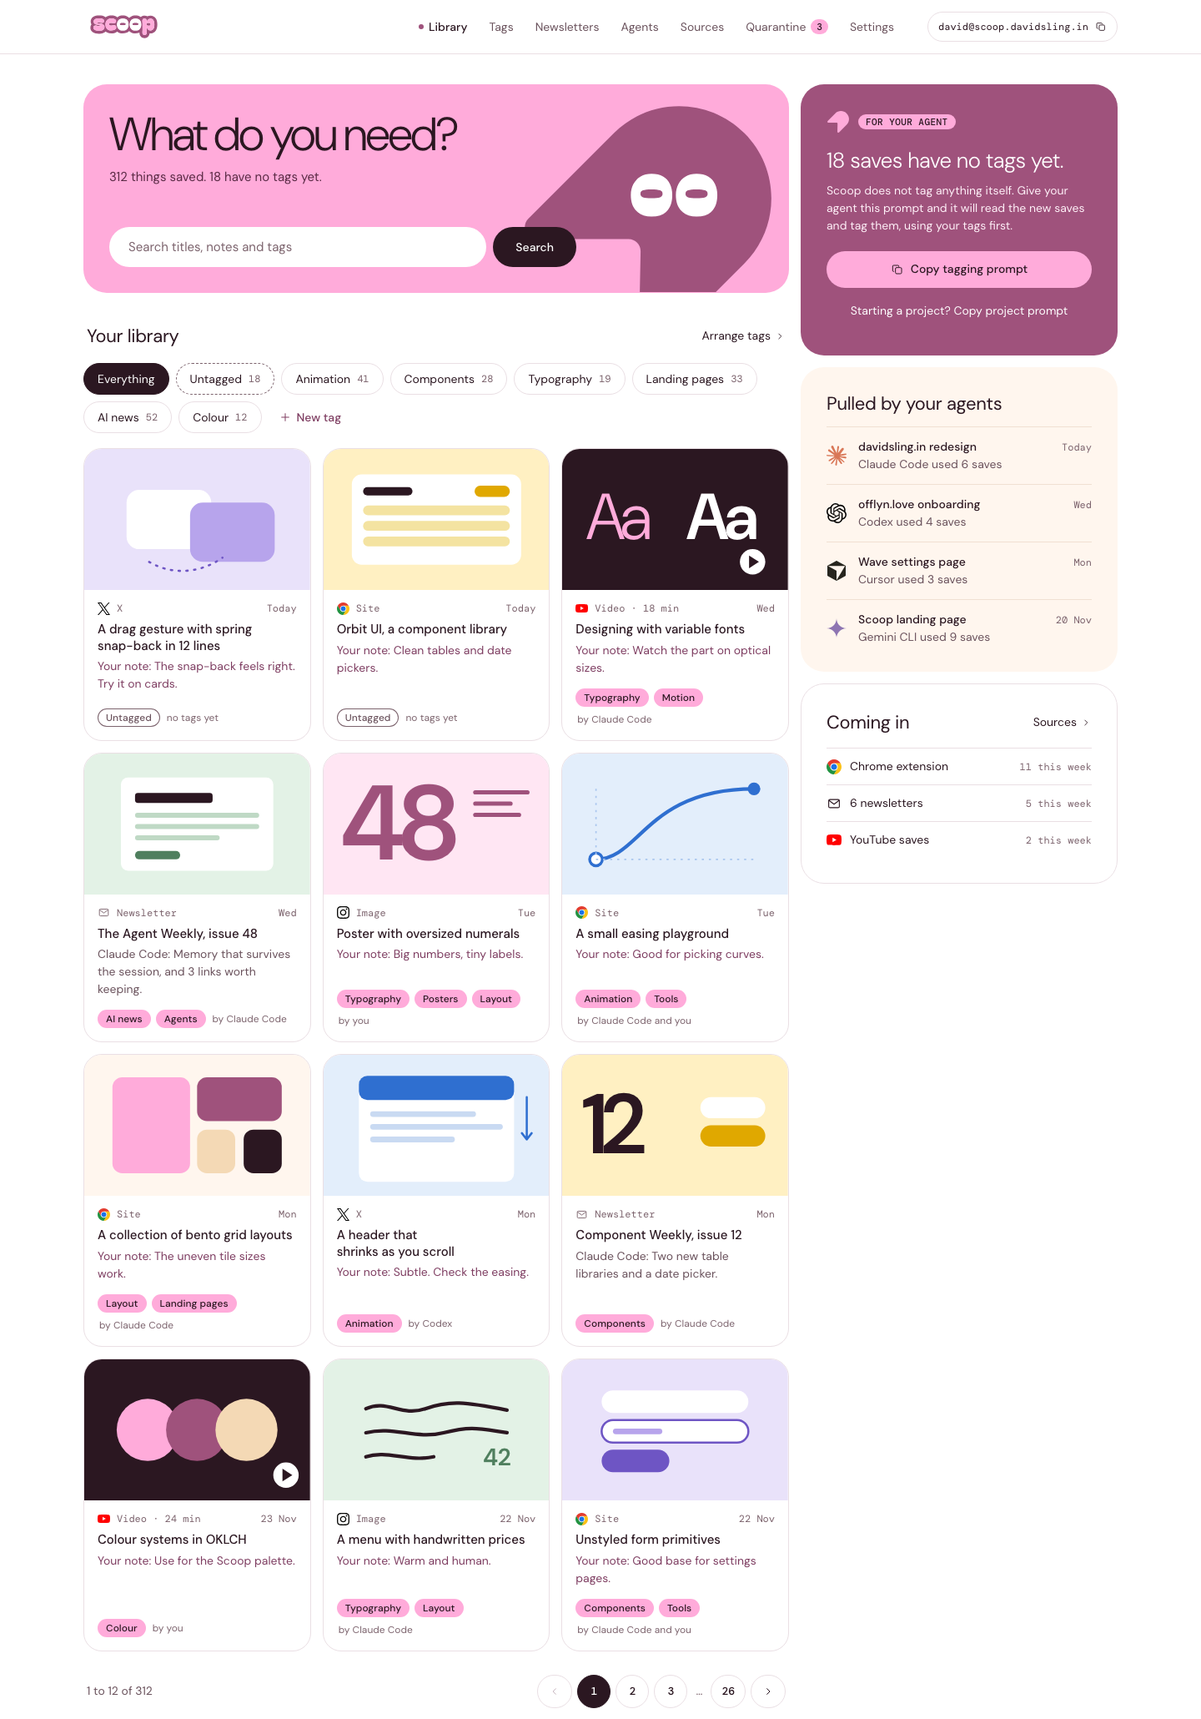
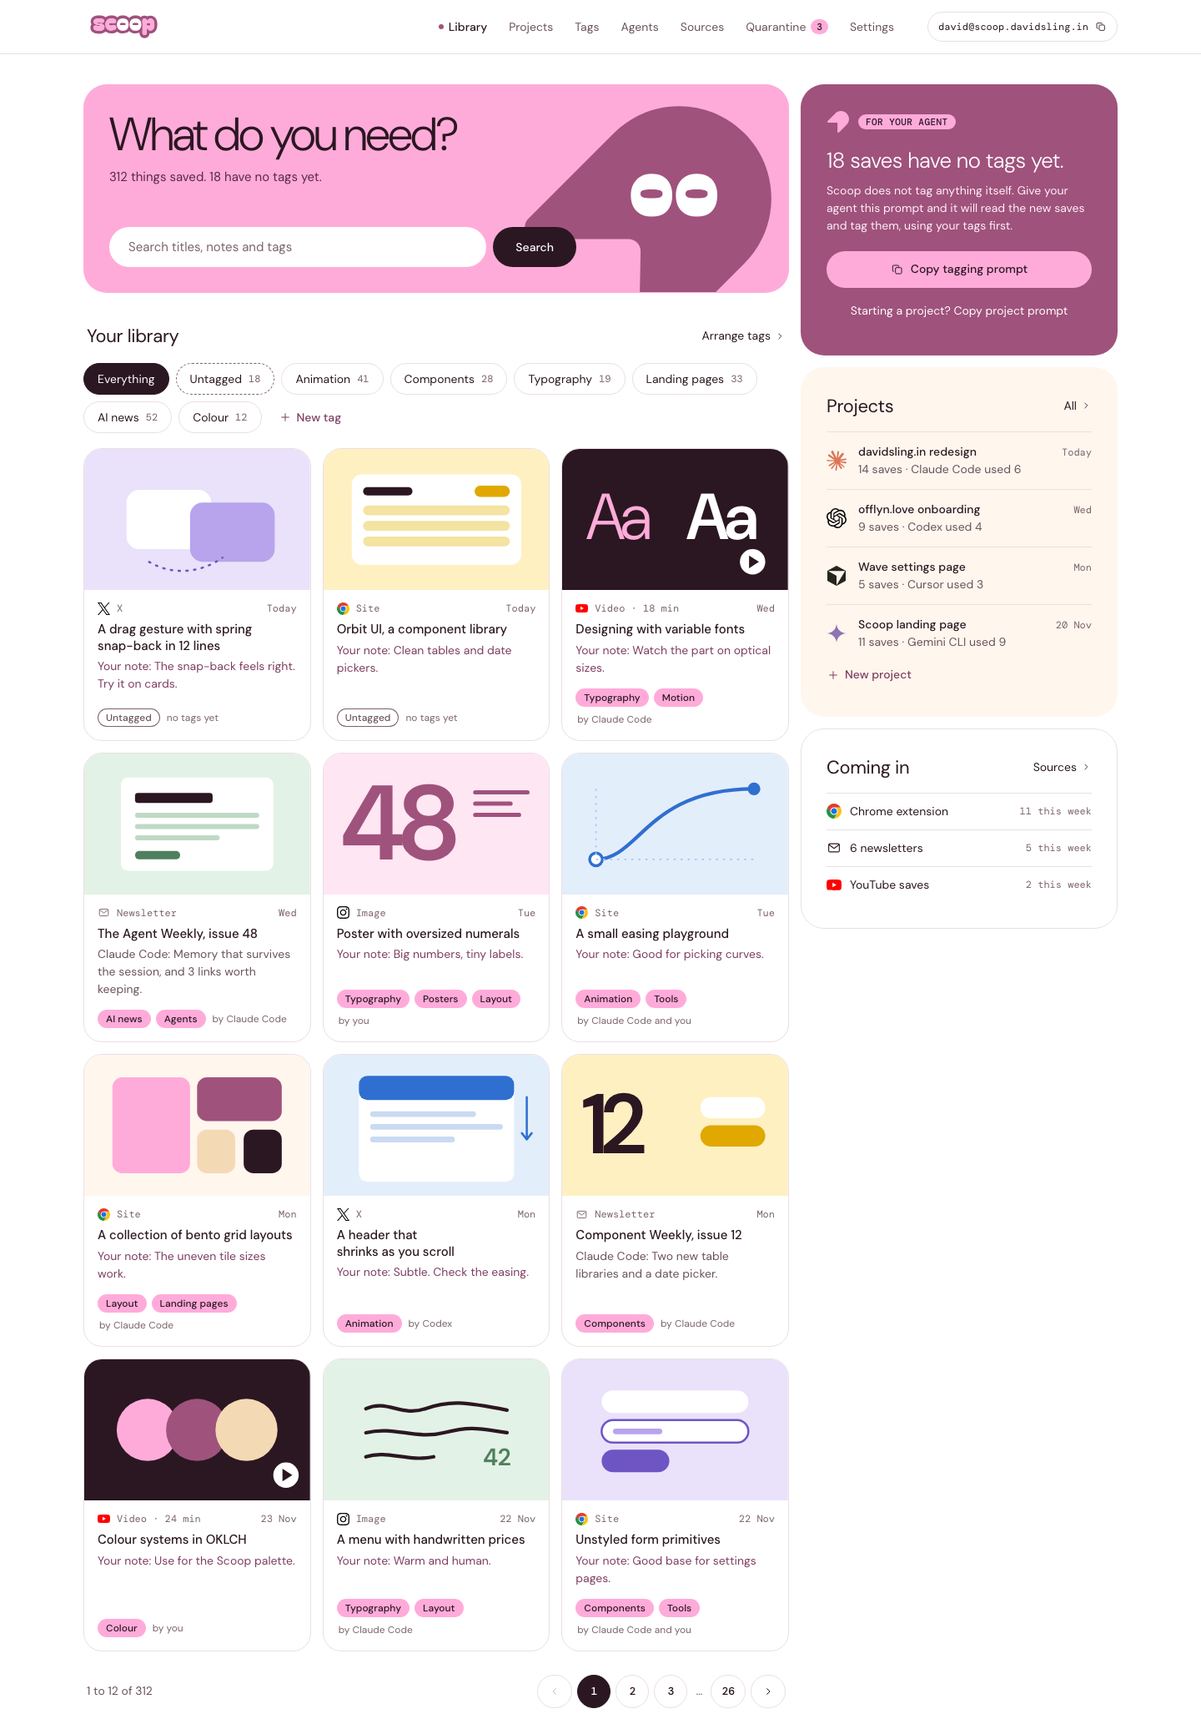
feat: add the project page mockup
A project shows its saves, who added each and how agents used them.
Projects also appear in the navigation, on the library and on each
save.

Changed region(s): [[0.6875, 0.2175, 0.8438, 0.5282], [0.8438, 0.435, 0.9062, 0.4971], [0.875, 0.3417, 0.9062, 0.3728]]

diff --git a/mockups/project.html b/mockups/project.html
@@ -1,0 +1,151 @@
+<!doctype html>
+<html lang="en">
+<head>
+<meta charset="utf-8">
+<meta name="viewport" content="width=device-width, initial-scale=1">
+<title>davidsling.in redesign · Scoop</title>
+<!-- Mockup with invented sample data. Nothing here is real mail or real activity. -->
+<link rel="preconnect" href="https://fonts.googleapis.com">
+<link rel="preconnect" href="https://fonts.gstatic.com" crossorigin>
+<link href="https://fonts.googleapis.com/css2?family=DM+Mono:wght@400;500&family=DM+Sans:opsz,wght@9..40,300;9..40,400;9..40,500;9..40,600&display=swap" rel="stylesheet">
+<link rel="stylesheet" href="app.css">
+<style>
+.back { display: inline-flex; align-items: center; gap: 6px; min-height: 36px; margin: -8px 0 14px; color: var(--ink-2); transition: color 120ms var(--ease); }
+.back:hover { color: var(--ink); }
+.back svg { transform: scaleX(-1); }
+.phead { position: relative; overflow: hidden; background: var(--pink); border-color: transparent; padding: 34px 30px 30px; }
+.phead h1 { margin: 0; font-size: 52px; line-height: 1.02; font-weight: 300; letter-spacing: -0.035em; text-wrap: balance; }
+.phead .brief { margin: 12px 0 0; font-size: 16px; color: #5A2A45; max-width: 52ch; }
+.phead .meta { margin: 14px 0 22px; font: 400 12px var(--mono); color: #5A2A45; }
+.phead .acts { display: flex; flex-wrap: wrap; gap: 8px; }
+.phead .btn { min-height: 44px; padding: 0 22px; }
+.phead .btn.white { background: #fff; }
+.phead .btn.white:hover { background: var(--cream); }
+.inby { margin-top: auto; padding-top: 14px; font-size: 12px; color: var(--ink-3); }
+.used { display: flex; flex-direction: column; align-items: flex-start; gap: 6px; margin-top: 8px; padding-top: 12px; border-top: 1px solid var(--rule); font-size: 13px; color: var(--ink-2); }
+.used .chip { font: 500 12px/22px var(--sans); letter-spacing: 0; text-transform: none; padding: 0 10px; }
+.log { list-style: none; margin: 14px 0 0; padding: 0; }
+.log li { display: flex; gap: 12px; padding: 13px 0; border-top: 1px solid #F0E0D2; }
+.log img.b { width: 22px; height: 22px; margin-top: 2px; }
+.log .t { font-weight: 500; }
+.log p { margin: 2px 0 0; color: var(--ink-2); }
+.log time { display: block; margin-top: 4px; font: 400 12px var(--mono); color: var(--ink-3); }
+.facts { margin: 14px 0 0; }
+.facts div { display: flex; justify-content: space-between; gap: 16px; min-height: 40px; align-items: center; border-top: 1px solid var(--rule); }
+.facts dt { color: var(--ink-2); }
+.facts dd { margin: 0; text-align: right; }
+.agentsrow { display: flex; align-items: center; gap: 8px; }
+.agentsrow img.b { width: 18px; height: 18px; }
+@media (max-width: 720px) { .phead h1 { font-size: 36px; } }
+</style>
+</head>
+<body>
+<svg width="0" height="0" style="position:absolute" aria-hidden="true">
+  <symbol id="i-plus" viewBox="0 0 24 24"><path d="M12 5.500v13M5.500 12h13"/></symbol>
+  <symbol id="i-x" viewBox="0 0 24 24"><path d="m7 7 10 10M17 7 7 17"/></symbol>
+  <symbol id="i-out" viewBox="0 0 24 24"><path d="M9 7h8v8M17 7 7 17"/></symbol>
+  <symbol id="i-pen" viewBox="0 0 24 24"><path d="m5 19 1-4L16.500 4.500l3 3L9 18z"/></symbol>
+  <symbol id="i-home" viewBox="0 0 24 24"><path d="M4.5 10.5 12 4.5l7.5 6v8a1 1 0 0 1-1 1h-13a1 1 0 0 1-1-1z"/><path d="M9.5 19.500v-5.500h5v5.500"/></symbol>
+  <symbol id="i-inbox" viewBox="0 0 24 24"><path d="M3.5 13.5 6 5.5h12l2.5 8v4a1.5 1.5 0 0 1-1.5 1.5H5a1.5 1.5 0 0 1-1.5-1.5z"/><path d="M3.5 13.5h4.7l1 2.5h5.6l1-2.5h4.7"/></symbol>
+  <symbol id="i-shield" viewBox="0 0 24 24"><path d="M12 3.5 5 6v5.5c0 4.2 2.9 7.400 7 9 4.100-1.600 7-4.800 7-9V6z"/></symbol>
+  <symbol id="i-check" viewBox="0 0 24 24"><circle cx="12" cy="12" r="8.5"/><path d="m8.500 12.300 2.400 2.400 4.600-5"/></symbol>
+  <symbol id="i-plug" viewBox="0 0 24 24"><path d="M9 3.500v4M15 3.500v4M6.500 7.500h11v3.500a5.500 5.500 0 0 1-11 0zM12 16.500v4"/></symbol>
+  <symbol id="i-agent" viewBox="0 0 24 24"><rect x="4.500" y="8" width="15" height="11" rx="3"/><path d="M12 8V4.500M9.500 13v1.500M14.500 13v1.500"/></symbol>
+  <symbol id="i-log" viewBox="0 0 24 24"><path d="M8.500 6.500h11M8.500 12h11M8.500 17.500h11M4.500 6.500h.01M4.500 12h.01M4.500 17.500h.01"/></symbol>
+  <symbol id="i-gear" viewBox="0 0 24 24"><path d="M4.500 7.500h9M17.500 7.500h2M4.500 16.500h2M10.500 16.500h9"/><circle cx="15.500" cy="7.500" r="2"/><circle cx="8.500" cy="16.500" r="2"/></symbol>
+  <symbol id="i-search" viewBox="0 0 24 24"><circle cx="11" cy="11" r="6.500"/><path d="m16 16 4 4"/></symbol>
+  <symbol id="i-mail" viewBox="0 0 24 24"><rect x="3.500" y="5.500" width="17" height="13" rx="2"/><path d="m4 7 8 6 8-6"/></symbol>
+  <symbol id="i-page" viewBox="0 0 24 24"><rect x="3.500" y="4.500" width="17" height="15" rx="2"/><path d="M3.500 9h17M6.500 6.800h.01M9 6.800h.01"/></symbol>
+  <symbol id="i-hash" viewBox="0 0 24 24"><path d="M9.500 4.500 8 19.500M16 4.500l-1.500 15M5 9.500h14.500M4.500 14.500H19"/></symbol>
+  <symbol id="i-play" viewBox="0 0 24 24"><rect x="3.500" y="5.500" width="17" height="13" rx="3"/><path d="m10.500 9.500 4 2.500-4 2.500z"/></symbol>
+  <symbol id="i-branch" viewBox="0 0 24 24"><circle cx="7" cy="6" r="2"/><circle cx="7" cy="18" r="2"/><circle cx="17" cy="8" r="2"/><path d="M7 8v8M17 10c0 3-3 3.500-10 4"/></symbol>
+  <symbol id="i-hook" viewBox="0 0 24 24"><path d="M13 3.500 6 13.500h5.500l-1 7 7-10H12z"/></symbol>
+  <symbol id="i-copy" viewBox="0 0 24 24"><rect x="8.500" y="8.500" width="11" height="11" rx="2"/><path d="M5.500 15.500h-.5a1.500 1.500 0 0 1-1.500-1.500V6A1.500 1.500 0 0 1 5 4.500h8A1.500 1.500 0 0 1 14.500 6v.5"/></symbol>
+  <symbol id="i-tag" viewBox="0 0 24 24"><path d="M4.500 5.500v6l8 8 6.500-6.500-8-8z"/><path d="M8.500 9.500h.01"/></symbol>
+  <symbol id="i-clock" viewBox="0 0 24 24"><circle cx="12" cy="12" r="8.500"/><path d="M12 7.500V12l3 2"/></symbol>
+  <symbol id="i-trash" viewBox="0 0 24 24"><path d="M4.500 7h15M9.500 7V4.500h5V7M6.500 7l1 12.500h9l1-12.500"/></symbol>
+  <symbol id="i-flag" viewBox="0 0 24 24"><path d="M6 20.500v-16M6 5.500h11l-2.500 4 2.500 4H6"/></symbol>
+  <symbol id="i-chev" viewBox="0 0 24 24"><path d="m10 7 5 5-5 5"/></symbol>
+</svg>
+
+<header class="topbar"><div class="wrap">
+  <a class="logo" href="dashboard.html"><img src="../brand/lockup-v2/scoop-lockup-tidy-wordmark-transparent.svg" alt="Scoop"></a>
+  <nav class="nav" aria-label="Main">
+    <a href="dashboard.html">Library</a>
+    <a href="project.html" aria-current="page">Projects</a>
+    <a href="#">Tags</a>
+    <a href="#">Agents</a>
+    <a href="#">Sources</a>
+    <a href="#">Quarantine <span class="n">3</span></a>
+    <a href="#">Settings</a>
+  </nav>
+  <button class="copy" type="button">david@scoop.davidsling.in<svg class="i"><use href="#i-copy"/></svg><span class="sr">Copy your agent's address</span></button>
+</div></header>
+
+<main><div class="wrap">
+  <a class="back" href="#"><svg class="i"><use href="#i-chev"/></svg>Projects</a>
+  <div class="tiles">
+    <div class="left">
+      <header class="tile phead">
+        <h1>davidsling.in redesign</h1>
+        <p class="brief">Portfolio rebuild. Calm and confident, with one playful moment per page.</p>
+        <div class="meta">14 saves · 6 used · created by you on 18 Nov</div>
+        <div class="acts">
+          <button class="btn solid" type="button"><svg class="i"><use href="#i-copy"/></svg>Copy project prompt</button>
+          <button class="btn white" type="button"><svg class="i"><use href="#i-plus"/></svg>Add saves</button>
+        </div>
+      </header>
+
+      <div class="rowhd"><h2>Saves in this project</h2></div>
+      <ul class="tags">
+        <li><a href="#" aria-current="true">All <span>14</span></a></li>
+        <li><a href="#">Used <span>6</span></a></li>
+        <li><a href="#">Not used yet <span>8</span></a></li>
+        <li><a href="#">Added by you <span>10</span></a></li>
+        <li><a href="#">Added by agents <span>4</span></a></li>
+      </ul>
+      <ul class="saves">
+        <li class="save"><a href="save.html"><span class="thumb"><svg viewBox="0 0 320 200" preserveAspectRatio="xMidYMid slice" aria-hidden="true"><rect width="320" height="200" fill="#E3EEFB"/><path d="M48 150C110 150 120 50 272 50" fill="none" stroke="#2F6FD0" stroke-width="5" stroke-linecap="round"/><circle cx="48" cy="150" r="9" fill="#fff" stroke="#2F6FD0" stroke-width="4"/><circle cx="272" cy="50" r="9" fill="#2F6FD0"/><path d="M48 50v100h224" fill="none" stroke="#A9C6EE" stroke-width="2" stroke-dasharray="3 7"/></svg></span><div class="txt"><div class="src"><img class="b" src="icons/googlechrome.svg" alt="">Site<time>Tue</time></div><h3>A small easing playground</h3><p class="">Your note: Good for picking curves.</p><div class="inby">Added by you</div><div class="used"><span class="chip">Used</span>Claude Code: Used the ease-out curve for the navigation hover and the page transitions.</div></div></a></li>
+        <li class="save"><a href="#"><span class="thumb"><svg viewBox="0 0 320 200" preserveAspectRatio="xMidYMid slice" aria-hidden="true"><rect width="320" height="200" fill="#2B1721"/><text x="34" y="128" font-family="DM Sans, sans-serif" font-size="92" font-weight="300" fill="#FFABDA" letter-spacing="-5">Aa</text><text x="176" y="128" font-family="DM Sans, sans-serif" font-size="92" font-weight="700" fill="#fff" letter-spacing="-5">Aa</text><circle cx="270" cy="160" r="18" fill="#fff"/><path d="m265 151 14 9-14 9z" fill="#2B1721"/></svg></span><div class="txt"><div class="src"><img class="b" src="icons/youtube.svg" alt="">Video · 18 min<time>Wed</time></div><h3>Designing with variable fonts</h3><p class="">Your note: Watch the part on optical sizes.</p><div class="inby">Added by you</div><div class="used"><span class="chip">Used</span>Claude Code: Chose a variable font for headings after the section on optical sizes.</div></div></a></li>
+        <li class="save"><a href="#"><span class="thumb"><svg viewBox="0 0 320 200" preserveAspectRatio="xMidYMid slice" aria-hidden="true"><rect width="320" height="200" fill="#FFF6EE"/><rect x="40" y="32" width="110" height="136" rx="14" fill="#FFABDA"/><rect x="160" y="32" width="120" height="62" rx="14" fill="#9F527C"/><rect x="160" y="106" width="54" height="62" rx="14" fill="#F4D9B5"/><rect x="226" y="106" width="54" height="62" rx="14" fill="#2B1721"/></svg></span><div class="txt"><div class="src"><img class="b" src="icons/googlechrome.svg" alt="">Site<time>Mon</time></div><h3>A collection of bento grid layouts</h3><p class="">Your note: The uneven tile sizes work.</p><div class="inby">Added by Claude Code</div><div class="used"><span class="chip">Used</span>Claude Code: Based the projects grid on the uneven tile sizes.</div></div></a></li>
+        <li class="save"><a href="#"><span class="thumb"><svg viewBox="0 0 320 200" preserveAspectRatio="xMidYMid slice" aria-hidden="true"><rect width="320" height="200" fill="#E9E2FA"/><rect x="60" y="58" width="120" height="84" rx="18" fill="#fff"/><rect x="150" y="76" width="120" height="84" rx="18" fill="#B7A4EC"/><path d="M92 160c30 18 70 18 104-6" fill="none" stroke="#6E55C4" stroke-width="3" stroke-linecap="round" stroke-dasharray="2 9"/></svg></span><div class="txt"><div class="src"><img class="b" src="icons/x.svg" alt="">X<time>Today</time></div><h3>A drag gesture with spring snap-back in 12 lines</h3><p class="">Your note: The snap-back feels right. Try it on cards.</p><div class="inby">Added by you</div><div class="used none"><span class="chip none">Not used yet</span></div></div></a></li>
+        <li class="save"><a href="#"><span class="thumb"><svg viewBox="0 0 320 200" preserveAspectRatio="xMidYMid slice" aria-hidden="true"><rect width="320" height="200" fill="#2B1721"/><circle cx="90" cy="100" r="44" fill="#FFABDA"/><circle cx="160" cy="100" r="44" fill="#9F527C"/><circle cx="230" cy="100" r="44" fill="#F4D9B5"/><circle cx="286" cy="164" r="18" fill="#fff"/><path d="m281 155 14 9-14 9z" fill="#2B1721"/></svg></span><div class="txt"><div class="src"><img class="b" src="icons/youtube.svg" alt="">Video · 24 min<time>23 Nov</time></div><h3>Colour systems in OKLCH</h3><p class="">Your note: Use for the Scoop palette.</p><div class="inby">Added by you</div><div class="used"><span class="chip">Used</span>Codex: Took the OKLCH approach for the colour tokens.</div></div></a></li>
+        <li class="save"><a href="#"><span class="thumb"><svg viewBox="0 0 320 200" preserveAspectRatio="xMidYMid slice" aria-hidden="true"><rect width="320" height="200" fill="#E3F2E6"/><path d="M60 70c30-14 50 12 84 0s56-10 116 2M60 104c40-10 70 10 110 0s50-6 90 0M60 138c30-10 60 8 96 0" fill="none" stroke="#2B1721" stroke-width="5" stroke-linecap="round"/><text x="226" y="150" font-family="DM Sans, sans-serif" font-size="34" font-weight="700" fill="#4F7F5E">42</text></svg></span><div class="txt"><div class="src"><img class="b" src="icons/instagram.svg" alt="">Image<time>22 Nov</time></div><h3>A menu with handwritten prices</h3><p class="">Your note: Warm and human.</p><div class="inby">Added by Claude Code</div><div class="used none"><span class="chip none">Not used yet</span></div></div></a></li>
+      </ul>
+      <nav class="pager" aria-label="Pages">
+        <span class="range">1 to 6 of 14</span>
+        <a class="pg off" aria-disabled="true"><svg class="i flip"><use href="#i-chev"/></svg><span class="sr">Previous page</span></a>
+        <a class="pg" href="#" aria-current="page">1</a>
+        <a class="pg" href="#">2</a>
+        <a class="pg" href="#">3</a>
+        <a class="pg" href="#"><svg class="i"><use href="#i-chev"/></svg><span class="sr">Next page</span></a>
+      </nav>
+    </div>
+
+    <aside class="right">
+      <div class="stick" style="grid-row: 1 / -1">
+      <section class="tile cream">
+        <div class="hd"><h2>How saves were used</h2></div>
+        <ul class="log">
+          <li><img class="b" src="icons/claude.svg" alt=""><div><div class="t">A small easing playground</div><p>Used the ease-out curve for the navigation hover and the page transitions.</p><time>Claude Code · today 10:14</time></div></li>
+          <li><img class="b" src="icons/claude.svg" alt=""><div><div class="t">A collection of bento grid layouts</div><p>Based the projects grid on the uneven tile sizes.</p><time>Claude Code · today 09:50</time></div></li>
+          <li><img class="b" src="icons/openai.svg" alt=""><div><div class="t">Colour systems in OKLCH</div><p>Took the OKLCH approach for the colour tokens.</p><time>Codex · Wed 18:31</time></div></li>
+        </ul>
+        <a class="more" href="#" style="display:inline-flex;align-items:center;gap:4px;min-height:36px;margin-top:6px;font-weight:500">All 6 reports<svg class="i"><use href="#i-chev"/></svg></a>
+      </section>
+
+      <section class="tile">
+        <div class="hd"><h2>Details</h2></div>
+        <dl class="facts">
+          <div><dt>Agents</dt><dd class="agentsrow"><img class="b" src="icons/claude.svg" alt="">Claude Code<img class="b" src="icons/openai.svg" alt="">Codex</dd></div>
+          <div><dt>Created</dt><dd>18 Nov, by you</dd></div>
+          <div><dt>Last report</dt><dd>Today 10:14</dd></div>
+        </dl>
+        <div style="display:flex;gap:4px;margin:6px 0 0 -12px"><button class="btn text" type="button">Rename</button><button class="btn text" type="button">Merge</button><button class="btn text" type="button">Archive</button></div>
+      </section>
+      </div>
+    </aside>
+  </div>
+</div></main>
+</body>
+</html>

diff --git a/mockups/save.html b/mockups/save.html
@@ -64,6 +64,13 @@
 .btn.del:hover { color: #A3261F; background: #FDECEA; }
 @media (max-width: 1100px) { .detail { grid-template-columns: minmax(0, 1fr); } .side { position: static; } }
 @media (max-width: 720px) { .detail h1 { font-size: 32px; } .open { flex-wrap: wrap; } .note p { font-size: 24px; } }
+.inproj { list-style: none; margin: 14px 0 0; padding: 0; }
+.inproj li { padding: 13px 0; border-top: 1px solid #F0E0D2; }
+.inproj .pname { font-weight: 500; border-bottom: 1px solid transparent; transition: border-color 150ms var(--ease); }
+.inproj .pname:hover { border-bottom-color: var(--ink); }
+.inproj .who { margin-left: 8px; font-size: 13px; color: var(--ink-3); }
+.usedhow { display: flex; gap: 8px; margin: 6px 0 0; color: var(--ink-2); }
+.usedhow img.b { width: 16px; height: 16px; margin-top: 3px; }
 </style>
 </head>
 <body>
@@ -99,8 +106,8 @@
   <a class="logo" href="dashboard.html"><img src="../brand/lockup-v2/scoop-lockup-tidy-wordmark-transparent.svg" alt="Scoop"></a>
   <nav class="nav" aria-label="Main">
     <a href="dashboard.html" aria-current="page">Library</a>
+    <a href="project.html">Projects</a>
     <a href="#">Tags</a>
-    <a href="#">Newsletters</a>
     <a href="#">Agents</a>
     <a href="#">Sources</a>
     <a href="#">Quarantine <span class="n">3</span></a>
@@ -161,11 +168,14 @@
       </section>
 
       <section class="tile cream">
-        <div class="hd"><h2>Used in projects</h2></div>
-        <ul class="pulls">
-          <li><img class="b" src="icons/claude.svg" alt=""><div><div class="s-top"><span>davidsling.in redesign</span><time>Today</time></div><p>Pulled by Claude Code</p></div></li>
-          <li><img class="b" src="icons/gemini.svg" alt=""><div><div class="s-top"><span>Scoop landing page</span><time>20 Nov</time></div><p>Pulled by Gemini CLI</p></div></li>
+        <div class="hd"><h2>Projects</h2></div>
+        <ul class="inproj">
+          <li><a class="pname" href="project.html">davidsling.in redesign</a><span class="who">added by you</span>
+            <p class="usedhow"><img class="b" src="icons/claude.svg" alt="">Claude Code, today: Used the ease-out curve for the navigation hover and the page transitions.</p></li>
+          <li><a class="pname" href="#">Scoop landing page</a><span class="who">added by Gemini CLI</span>
+            <p class="usedhow"><img class="b" src="icons/gemini.svg" alt="">Gemini CLI, 20 Nov: Compared two curves for the hero card. Chose the slower one.</p></li>
         </ul>
+        <button class="newtag" type="button" style="margin:10px 0 0 -12px"><svg class="i"><use href="#i-plus"/></svg>Add to a project</button>
       </section>
 
       <section class="tile">

diff --git a/mockups/dashboard.html b/mockups/dashboard.html
@@ -40,8 +40,8 @@
   <a class="logo" href="dashboard.html"><img src="../brand/lockup-v2/scoop-lockup-tidy-wordmark-transparent.svg" alt="Scoop"></a>
   <nav class="nav" aria-label="Main">
     <a href="dashboard.html" aria-current="page">Library</a>
+    <a href="project.html">Projects</a>
     <a href="#">Tags</a>
-    <a href="#">Newsletters</a>
     <a href="#">Agents</a>
     <a href="#">Sources</a>
     <a href="#">Quarantine <span class="n">3</span></a>
@@ -113,13 +113,14 @@
 
       <div class="stick">
       <section class="tile cream">
-        <div class="hd"><h2>Pulled by your agents</h2></div>
+        <div class="hd"><h2>Projects</h2><a href="project.html">All<svg class="i"><use href="#i-chev"/></svg></a></div>
         <ul class="pulls">
-          <li><img class="b" src="icons/claude.svg" alt=""><div><div class="s-top"><span>davidsling.in redesign</span><time>Today</time></div><p>Claude Code used 6 saves</p></div></li>
-          <li><img class="b" src="icons/openai.svg" alt=""><div><div class="s-top"><span>offlyn.love onboarding</span><time>Wed</time></div><p>Codex used 4 saves</p></div></li>
-          <li><img class="b" src="icons/cursor.svg" alt=""><div><div class="s-top"><span>Wave settings page</span><time>Mon</time></div><p>Cursor used 3 saves</p></div></li>
-          <li><img class="b" src="icons/gemini.svg" alt=""><div><div class="s-top"><span>Scoop landing page</span><time>20 Nov</time></div><p>Gemini CLI used 9 saves</p></div></li>
+          <li><a href="project.html"><img class="b" src="icons/claude.svg" alt=""><div><div class="s-top"><span>davidsling.in redesign</span><time>Today</time></div><p>14 saves · Claude Code used 6</p></div></a></li>
+          <li><a href="#"><img class="b" src="icons/openai.svg" alt=""><div><div class="s-top"><span>offlyn.love onboarding</span><time>Wed</time></div><p>9 saves · Codex used 4</p></div></a></li>
+          <li><a href="#"><img class="b" src="icons/cursor.svg" alt=""><div><div class="s-top"><span>Wave settings page</span><time>Mon</time></div><p>5 saves · Cursor used 3</p></div></a></li>
+          <li><a href="#"><img class="b" src="icons/gemini.svg" alt=""><div><div class="s-top"><span>Scoop landing page</span><time>20 Nov</time></div><p>11 saves · Gemini CLI used 9</p></div></a></li>
         </ul>
+        <button class="newtag" type="button" style="margin:10px 0 0 -12px"><svg class="i"><use href="#i-plus"/></svg>New project</button>
       </section>
 
       <section class="tile">

diff --git a/mockups/app.css b/mockups/app.css
@@ -243,3 +243,8 @@ h2 { margin: 0; font-size: 22px; line-height: 1.2; font-weight: 400; letter-spac
 @media (max-width: 1100px) { .stick { position: static; } }
 @media (max-width: 1100px) { .saves { grid-template-columns: repeat(2, minmax(0, 1fr)); } }
 @media (max-width: 720px) { .saves { grid-template-columns: minmax(0, 1fr); } .find { flex-direction: column; } }
+
+/* Project rows that link somewhere */
+.pulls li > a { display: flex; align-items: center; gap: 14px; flex: 1; min-width: 0; margin: -6px -10px; padding: 6px 10px; border-radius: 14px; transition: background-color 120ms var(--ease); }
+.pulls li > a:hover { background: rgba(159, 82, 124, 0.08); }
+.pulls li > a > div { flex: 1; min-width: 0; }
